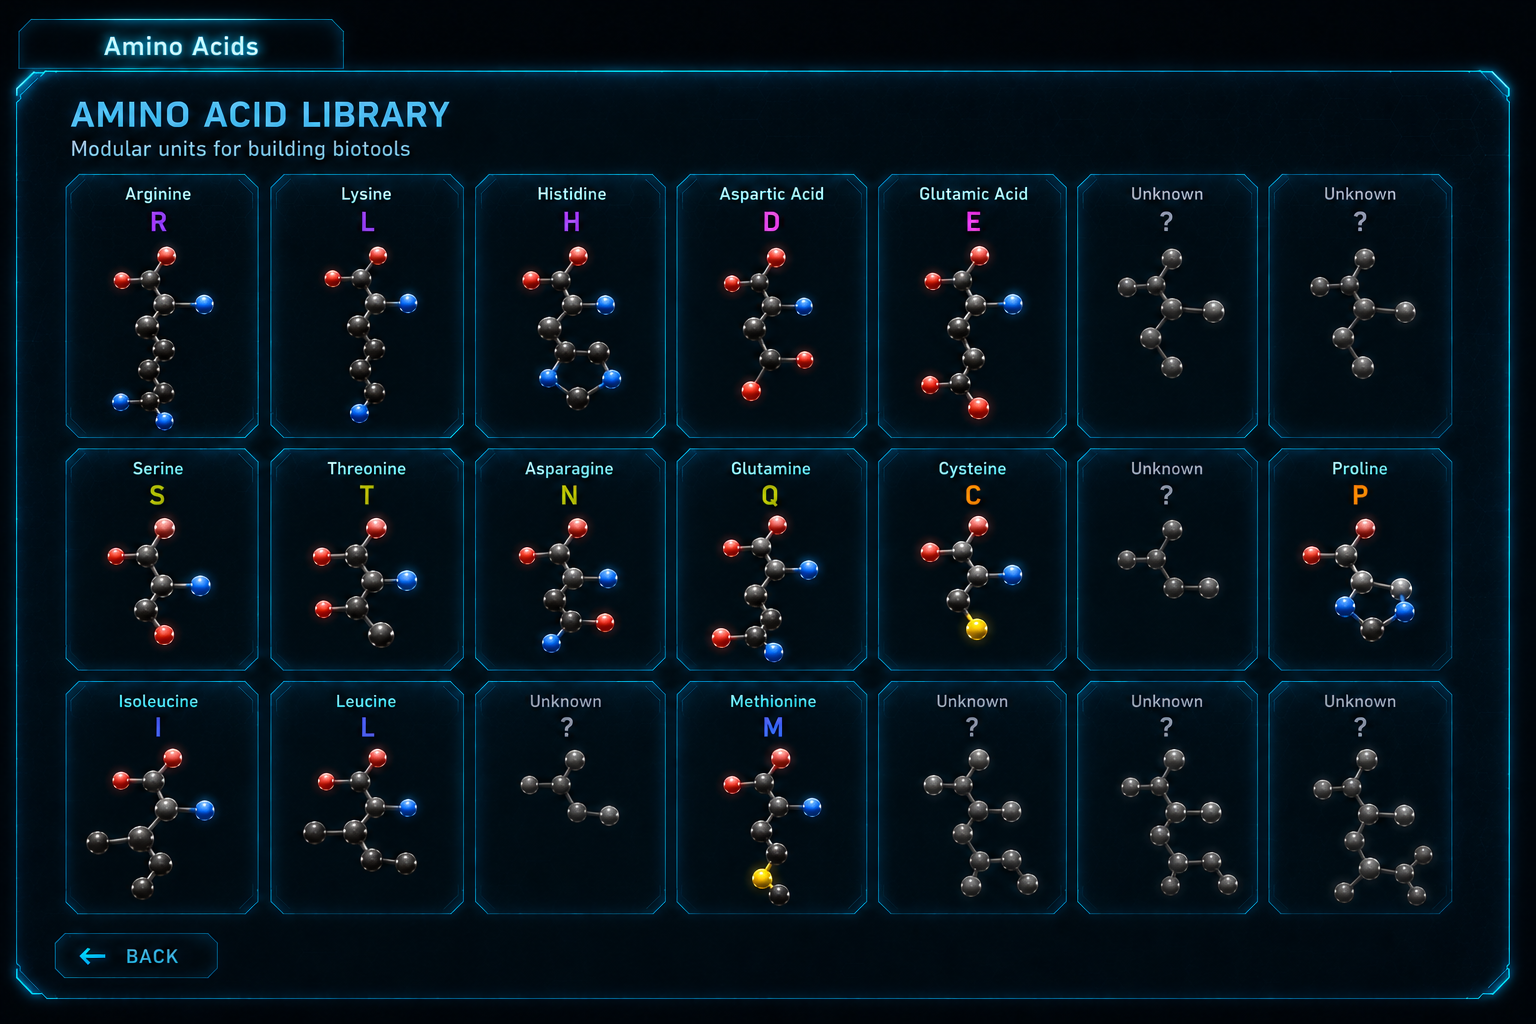
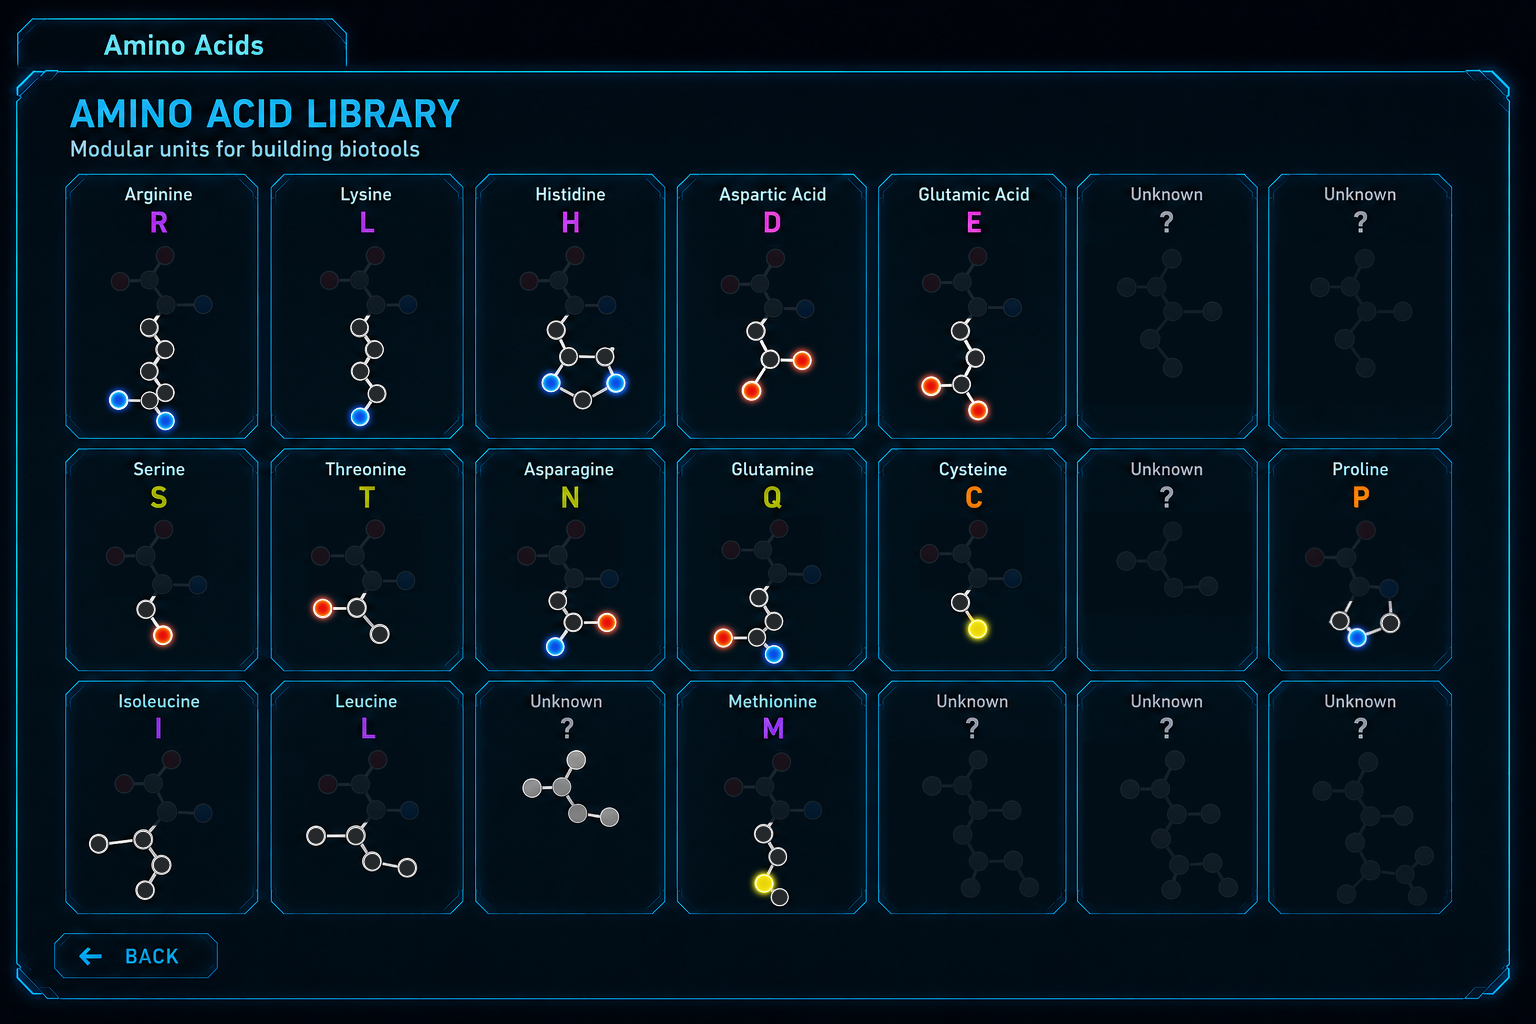
add engagement controls, color mapper, fix AI text formatting, revise a few spots

diff --git a/public/walkthrough/index.html b/public/walkthrough/index.html
@@ -448,9 +448,9 @@
 -->
 
             <img class="zone-hero" src="/walkthrough/images/primordial2.png" alt="Primordial Zone concept art">
-            <p><i>A landscape view of the primordial zone. An uneven, rocky terrain with small pools of water are
+            <p class="zone-caption">A landscape view of the primordial zone. An uneven, rocky terrain with small pools of water are
                 visible. Many small bacteria can be seen throughout the landscape, as well as many, much larger diatoms,
-                in a variety of shapes and sizes.</i></p>
+                in a variety of shapes and sizes.</p>
 
             <div class="zone-copy">
               <p>
@@ -512,7 +512,7 @@
             </div>
             <img class="zone-hero" src="/walkthrough/images/primordialPerspective.png"
               alt="Primordial Zone concept art">
-            <p><i>A view from within the primordial zone.</i></p>
+            <p class="zone-caption">A view from within the primordial zone.</p>
 
           </div>
 
@@ -533,8 +533,8 @@
                   <li>Combine lipids (x2) into membranes</li>
                   <li>Combine membranes (x2) into protocells</li>
                   <li>Add one more mebrane to a protocell to create a vesicle</li>
-                  <li>AI comment: "your vesicles are made of the same material as bacteria, and every other living cell,
-                    but your vesicles are not alive. Why?"</li>
+                  <li>AI comment: <span class="ai">"your vesicles are made of the same material as bacteria, and every other living cell,
+                    but your vesicles are not alive. Why?"</span></li>
                 </ol>
                 <p class="duration">~15-20 min.</p>
                 <span><img src="/walkthrough/images/protocell.png"
@@ -776,6 +776,7 @@
                   <li>Suggests not placing any structures near the slug or its path since the slug may destroy them</li>
                 </ul>
                 <li>You scrape mucus from slime trails by hand (small yeild)</li>
+                <ul><li>While harvesting mucus, AI comments: <span class="ai">"Some argue that all of this is too complex to have arisen by chance."</span></li></ul>
                 <li>The ability to create cholesterol containing membranes is unlocked</li>
                 <li><a href="#task-membrane-recycling" data-open-task="task-membrane-recycling">Membrane Recycling
                     Center</a> mission is opened</li>
@@ -789,8 +790,7 @@
                     to survive</li>
                 </ul>
                 <li>While out exploring in this zone, AI will comment: <span class="ai">"Another theory posits that
-                    quantum tunneling facilitated molecular formation, enabling life. You would not exist if not for
-                    quantum tunneling."</li>
+                    quantum tunneling facilitated molecular formation, enabling life. You would not exist if your subatomic particles did not have wave-like behavior."</li>
               </ol>
             </div>
           </div>
@@ -833,14 +833,14 @@
                   <strong>Trigger:</strong> Find and collect a complete cell (requires Bulk Carry upgrade)
                 </p>
                 <ol>
-                  <li>AI comments: "This cell is still alive...for now"</li>
+                  <li>AI comments: <span class="ai">"This cell is still alive...for now"</span></li>
                   <li>Scanning the surviving epithelial cell reveals transport proteins that maintain its internal
                     environment</li>
                   <li>The AI concludes that these same components could be assembled into an artificial maintenance pod
                   </li>
                   <li>Construct cell culture pod from protocell, water channel, glucose transporter, and oxygen
                     transporter, 1 cell per pod</li>
-                  <li>AI comments: "I have optimized the nutrient solution"</li>
+                  <li>AI comments: <span class="ai">"I have optimized the nutrient solution"</span></li>
                   <ul>
                     <li>Epithelial cells can produce cholesterol at a rate of 10x the harvester</li>
                     <li>Cells in cell culture will eventually senesce and will no longer be usable</li>
@@ -874,11 +874,11 @@
                   <li>Task HUD: "Build a sturdier cell that can withstand the antibiotics in the Fungal Zone"</li>
                   <li>Build a nucleus</li>
                   <ul>
-                    <li>AI comment: "You will need to escalate production and energy output to build many structures if
+                    <li>AI comment: <span class="ai">"You will need to escalate production and energy output to build many structures if
                       you are to build a structure strong enough to withstand the naturally occuring antibiotics in this
                       zone.
                       Suggest making a nucleus to warehouse all of your RNAs.
-                      To make a nucleus, you'll need lots of channels"</li>
+                      To make a nucleus, you'll need lots of channels"</span></li>
                     <li>"You can make lots of any protein if you have its RNA sequence and a ribosome. If you already
                       have the protein sequence, you can figure out an RNA sequence. You can automate the system of
                       making proteins this way and quickly scale it up."</li>
@@ -981,7 +981,7 @@
                 You emerge into a land of fantastically large plant structures. Trees that are so tall the tops cannot
                 be
                 seen; plants the size of large mansions, plenty of water spots, and a bright, sunny sky. Whether you
-                notice it or not, the HUD oxygen meter pins all the way to the top (into the danger zone).</p>
+                notice it or not, the HUD oxygen meter pins all the way to the top (into the danger zone). As you emerge into this zone, the AI comments <span class="ai">Some argue that all of this is inevitable. That life is an inevitable physical process driven by energy dissipation, rather than a random accident.</span></p>
               <p>As soon as you build anything, you'll notice your structures running really fast, to the point that
                 they
                 start breaking. After a minute or so of this, the AI will comment on it, and point out that the
@@ -1002,8 +1002,8 @@
                     data-open-task="task-dna">DNA</a> task</li>
                 <li>Discovering and havesting iron in this zone will unlock the ability to upgrade the power output to
                   photosystem I, and to build basic mitochondria-like structures</li>
-                <li>While harvesting iron for the first time, AI will comment: <span class="ai">"argues that life began
-                    with self-sustaining chemical cycles on iron-sulfur minerals rather than genetic material"</span>
+                <li>While harvesting iron for the first time, AI will comment: <span class="ai">" The Iron–Sulfur World hypothesis argues that life began
+                    with self-sustaining chemical cycles on iron-sulfur minerals rather than genetic material."</span>
                 </li>
                 <li>When they player upgrades their energy production pipeline to include photosystem I, the <a
                     href="#task-pathogenesis" data-open-task="task-pathogenesis">Pathogenesis</a> task is triggered</li>
@@ -1450,7 +1450,7 @@
                 <li>It's a free build! AI opens the <a href="#task-gene-builder" data-open-task="task-gene-builder">Gene
                     Builder</a> for you</li>
               </ul>
-              <img class="zone-hero" src="/walkthrough/images/progression.png" alt="Endgame megafauna: a giant spider.">
+              <!--<img class="zone-hero" src="/walkthrough/images/progression.png" alt="Endgame megafauna: a giant spider.">-->
               <p>Gene Builder: When a player scans structures in the environment, their sequences ends up in their list
                 of proteins. There are a few Easter egg sequences in the game, like a GFP analog (from the cave fungi).
                 You can attach this sequence to proteins to watch them get moved through the cell, or just for a green
@@ -1483,13 +1483,16 @@
                   metabolic
                   engineering. They can reorganize the system to produce cholesterol, for example, at a rate of 100x the
                   cell culture system.</p>
-                <p>Finally, the player is also given a megastructure: the xylem. This enormous structure template is
+                <p>Finally, the player is also given their first template, which is a megastructure: the xylem. This enormous structure template is
                   useful for building incredibly large structures (moves water up high).</p>
+                <p>
+                  As you are set free in this new sandbox zone, the AI comments: <span class="ai">"Some say that life is just different... because it wants things."</span>
+                </p>
                 <p class="duration">~1 min.</p>
                 <span><img src="/walkthrough/images/geneBuilder.png" class="lightbox-image"
                     data-lightbox-src="/walkthrough/images/geneBuilder.png"
                     alt="In game screen showing how to build a new gene by selecting gene components."></span>
-                <p>"Biotools" are proteins. They can be spliced to create new tools. Find other modular units to
+                <p class="zone-caption">"Biotools" are proteins. They can be spliced to create new tools. Find other modular units to
                   recombine by exploring the environment.</p>
               </div>
             </details>
@@ -1554,11 +1557,14 @@
               <h3><u>mRNAs</u></h3>
               <p>
                 The mRNA screen is where you construct mRNAs, from which multiple biotools can be built (if you have the
-                resources).
+                resources). Picking the first letter restricts the row, picking the second letter picks the column, and picking the third letter selects the specific amino acid.
               </p>
               <img src="/walkthrough/images/mRNA.png"
                 alt="In game screen showing mRNAs. The specific (artificial) sequence for a given mRNA is shown based on the chosen tool, along with the loadout of nucleic acids required to built it.">
               <br>
+              <p class="zone-caption">
+                mRNA screen. the user interface allows you to pick one of four letters from the first position (which restricts the row), then one of four letters for the second position (which restricts the column), then one of four letters to pick the specific codon.
+              </p>
 
               <h3><u>tRNAs</u></h3>
               <p>
@@ -1572,6 +1578,54 @@
           </div>
         </div>
       </details>
+
+      <!-- ==================================================================================-->
+      <!-- =================================== SETTINGS =====================================-->
+      <!-- ==================================================================================-->
+      <details class="zone-card zone-card-full" id="settings">
+        <summary class="zone-summary">
+          <!--        <span class="zone-number">04</span>-->
+          <span class="zone-title">Settings</span>
+        </summary>
+
+        <div class="zone-inner">
+          <div class="zone-main">
+
+            <!--<img class="zone-hero" src="/walkthrough/images/inventory.png"
+              alt="In game menu showing the player's inventory, and various tabs at the top.">-->
+
+            <div class="zone-copy">
+              <p>
+                Atlas Vegrandis has a few unique settings, including Visual Settings and Engagement Controls.
+              </p>
+              <h3><u>Visual Settings</u></h3>
+              <p>
+                Artistic liberties are taken with the visuals at microscopic scale. This is made explicitly clear to players by enabling them to pick the false coloring scheme they prefer, and includes various presets that are aesthetically pleasing, high contrast, or compatible with different forms of color blindness.
+              </p>
+              <img src="/walkthrough/images/colorPicker.png"
+                alt="In game screen for assining colors to different structures in the game.">
+              <br>
+              <h3><u>Engagement Controls</u></h3>
+              <p>
+                One of the key features in the game is the ability to directly control the engagement techniques that are used, instead of always maximizing them. For example, the game makes heavy use of Reward Prediction Error (RPE) encoding, as most modern tech does. As long as the cost is low (e.g. checking your phone for a notification) and the reward is unpredictable (e.g. whether or not there's a notification), engagement is strongly encouraged. In the Atlas Vegrandis (as with other open world crafting games), the cost in terms of time for searching for resources or other rewards is typically fairly low for most resources, and their appearance random, driving engagement.
+              </p>
+              <p>
+                Because these can be difficult to disengage from, the reward predction schedules can be set to dial back at a certain point (e.g. time-based, milestone based, etc.). After the trigger, the random appearance of rewards gradually (set in the "Timing" box) becomes less over time, until disappearing completely. With the reward schedules no longer driving engagement, disengagement becomes favored. This lets the user take advantage of a highly engaging medium but still have control over healthy play patterns in ways more effective than hard stops.
+              </p>
+
+              <img src="/walkthrough/images/engagement.png"
+                alt="Game settings screen that allows a user to control how long the engagement effects last.">
+              <br>
+              <p class="zone-caption">
+                In game settings screen allowing a player to control how long the highly engaging features of the game are effective. Disengagement can be turned off automatically after a certain amount of time or if some other criteria is met.
+              </p>
+
+            </div>
+          </div>
+        </div>
+      </details>
+
+
       <!--      <div class="content-grid">
         <article class="task-card">
           <p class="label">Major task</p>
@@ -1608,6 +1662,7 @@
   <footer class="site-footer">
     <p>Atlas Vegrandis</p>
     <p><a href="mailto:[email redacted]">[email redacted]</a></p>
+    <p>&copy; 2026 Jonathon Keeney. All rights reserved.</p>
   </footer>
 
   <div class="lightbox" data-lightbox hidden>

diff --git a/public/walkthrough/walkthrough.css b/public/walkthrough/walkthrough.css
@@ -324,6 +324,11 @@ main {
   font-size: 1.08rem;
 }
 
+p.zone-caption {
+  color: var(--text);
+  font-style: italic;
+}
+
 .content-grid {
   display: grid;
   grid-template-columns: repeat(3, minmax(0, 1fr));